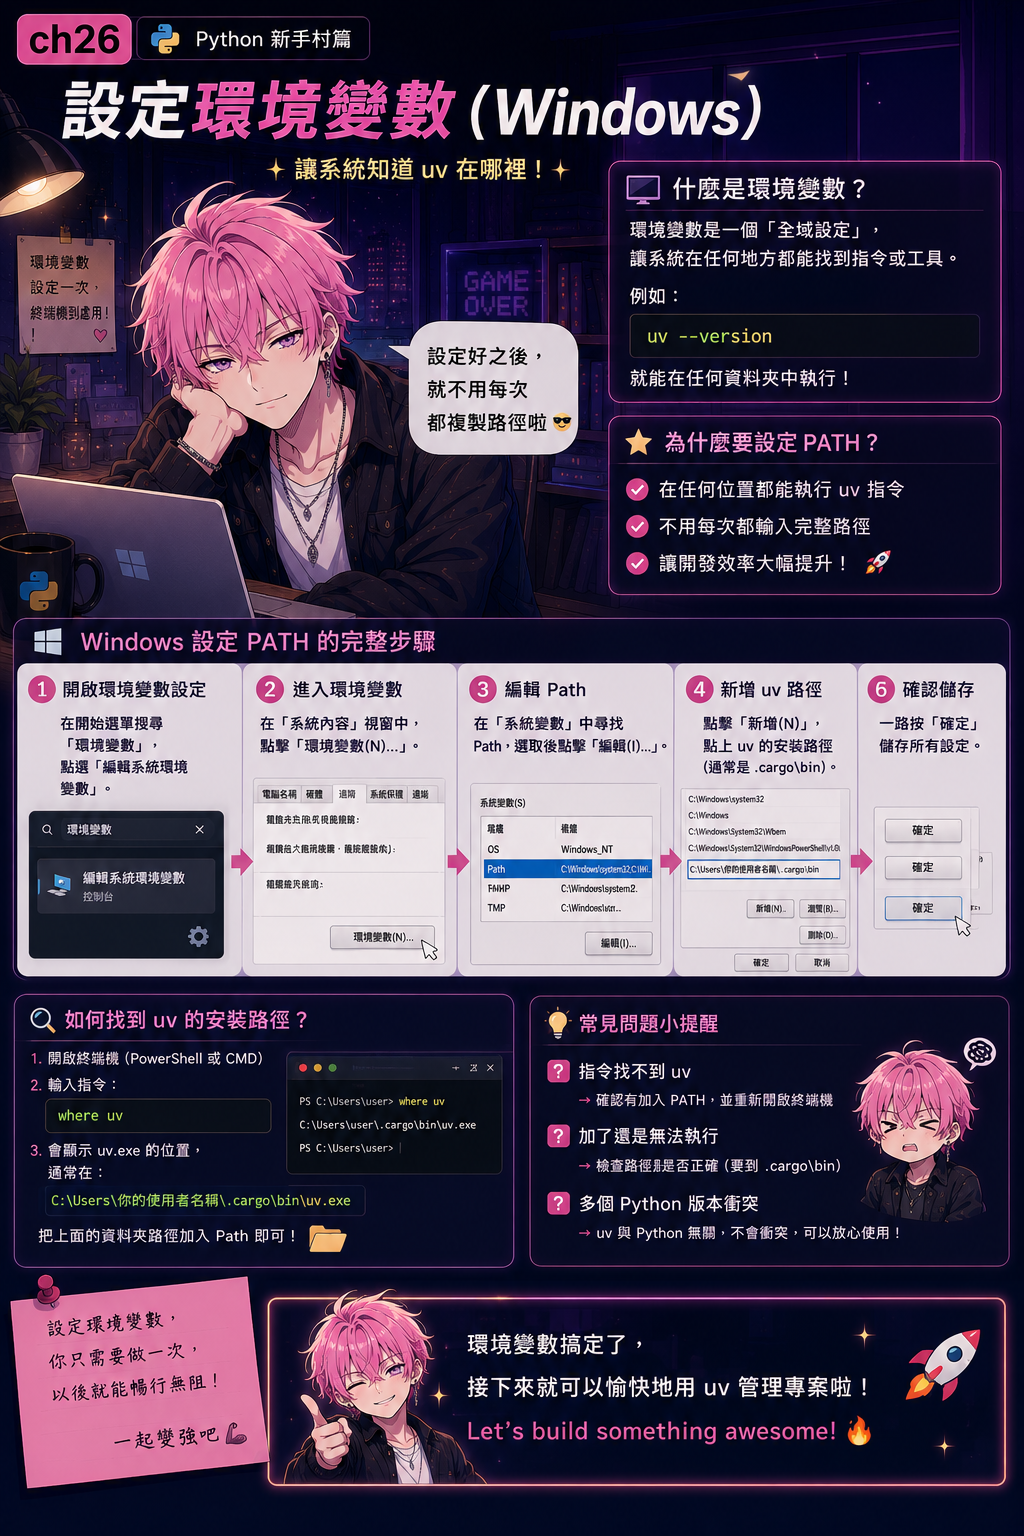
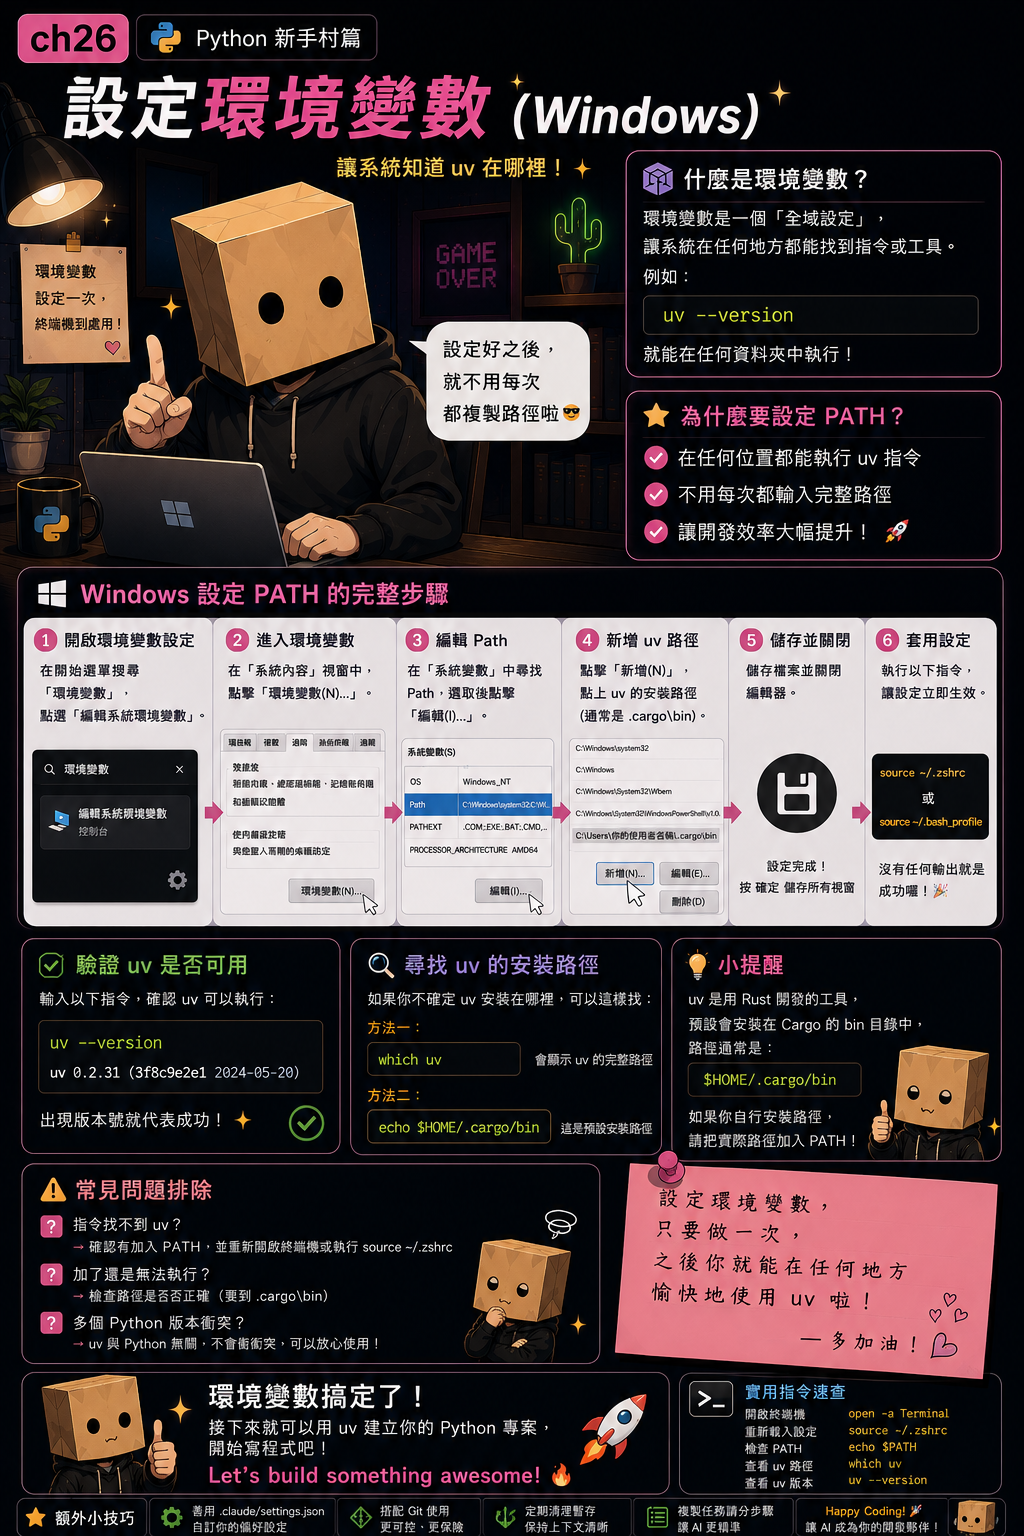
fix(theme): 明亮模式聊天室「使用者訊息泡泡」黑字改白字
使用者泡泡用漸層 from-accent→to-accent-2（明亮模式是深綠#1f883d→藍#218bff），
配 text-black 在深底上看不到。原本的 light 覆寫只蓋實心 .bg-accent、漏掉漸層泡泡，
補上 [class*="from-accent"] 的 text-black/text-fg → 白字（AI 導師 + 寵物等所有聊天室通用）。

diff --git a/src/app/globals.css b/src/app/globals.css
@@ -281,6 +281,13 @@ html[data-theme="light"] .bg-accent.text-black,
 html[data-theme="light"] .bg-accent .text-black,
 html[data-theme="light"] .bg-accent .text-fg { color: #fff; }
 
+/* AI 導師 / 寵物等聊天室的「使用者訊息泡泡」用漸層 from-accent→to-accent-2
+   （明亮模式是深綠 #1f883d → 藍 #218bff），上面配 text-black 看不到 → 一律改白字。
+   上面那組只蓋實心 .bg-accent、漏掉漸層泡泡，這裡補上。 */
+html[data-theme="light"] [class*="from-accent"].text-black,
+html[data-theme="light"] [class*="from-accent"] .text-black,
+html[data-theme="light"] [class*="from-accent"] .text-fg { color: #fff; }
+
 /* ============================================================
    程式碼 / 終端機區塊 — 明亮模式：淺灰底 + 深字
    暗色介面不該沿用到 light theme；語法 token 改 atom-one-light 系。